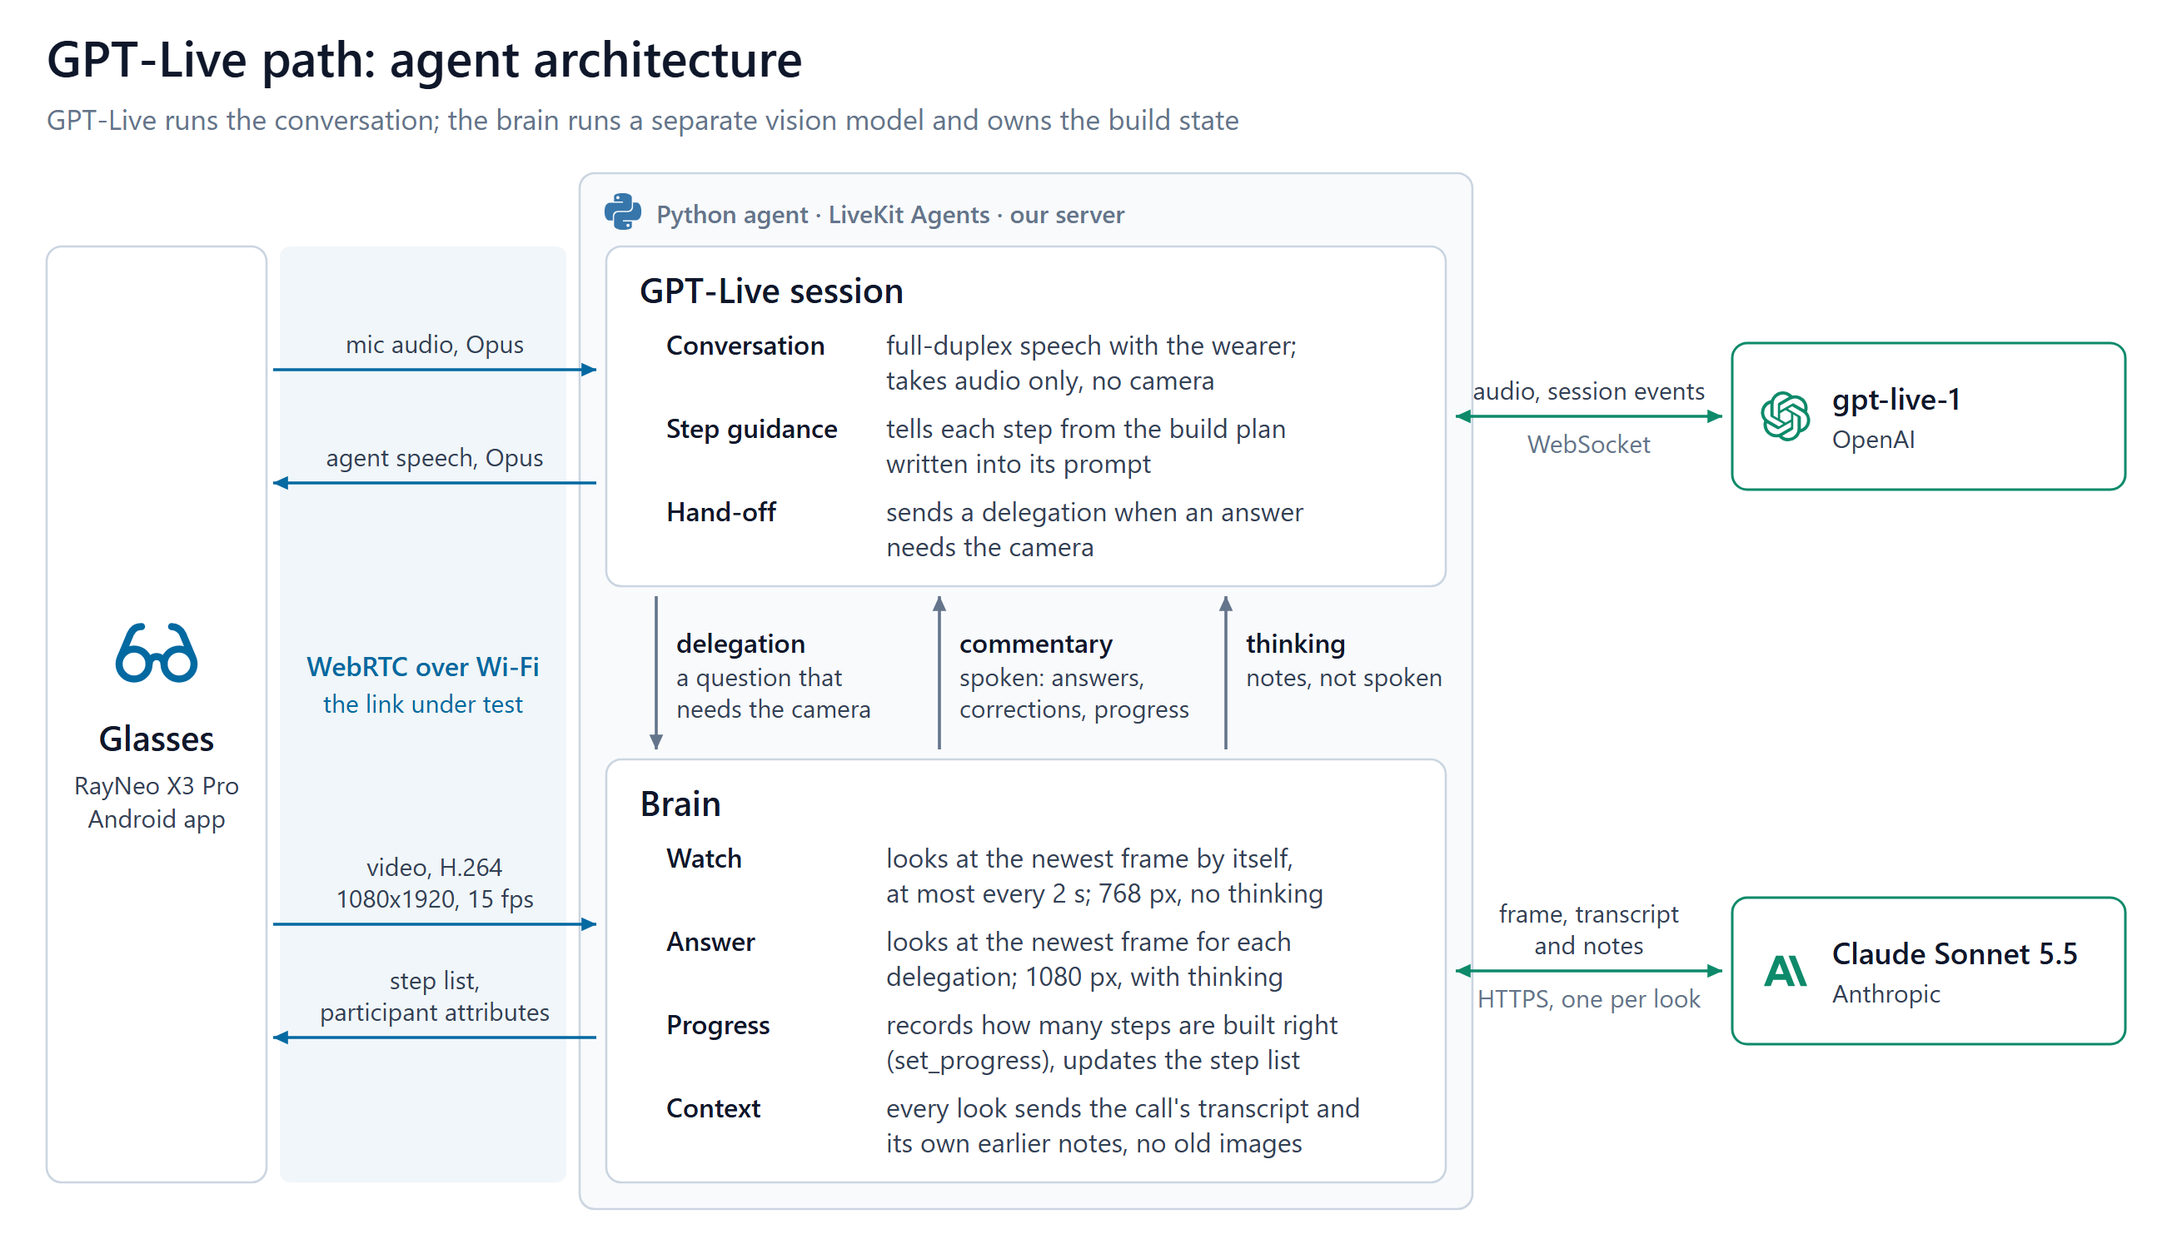
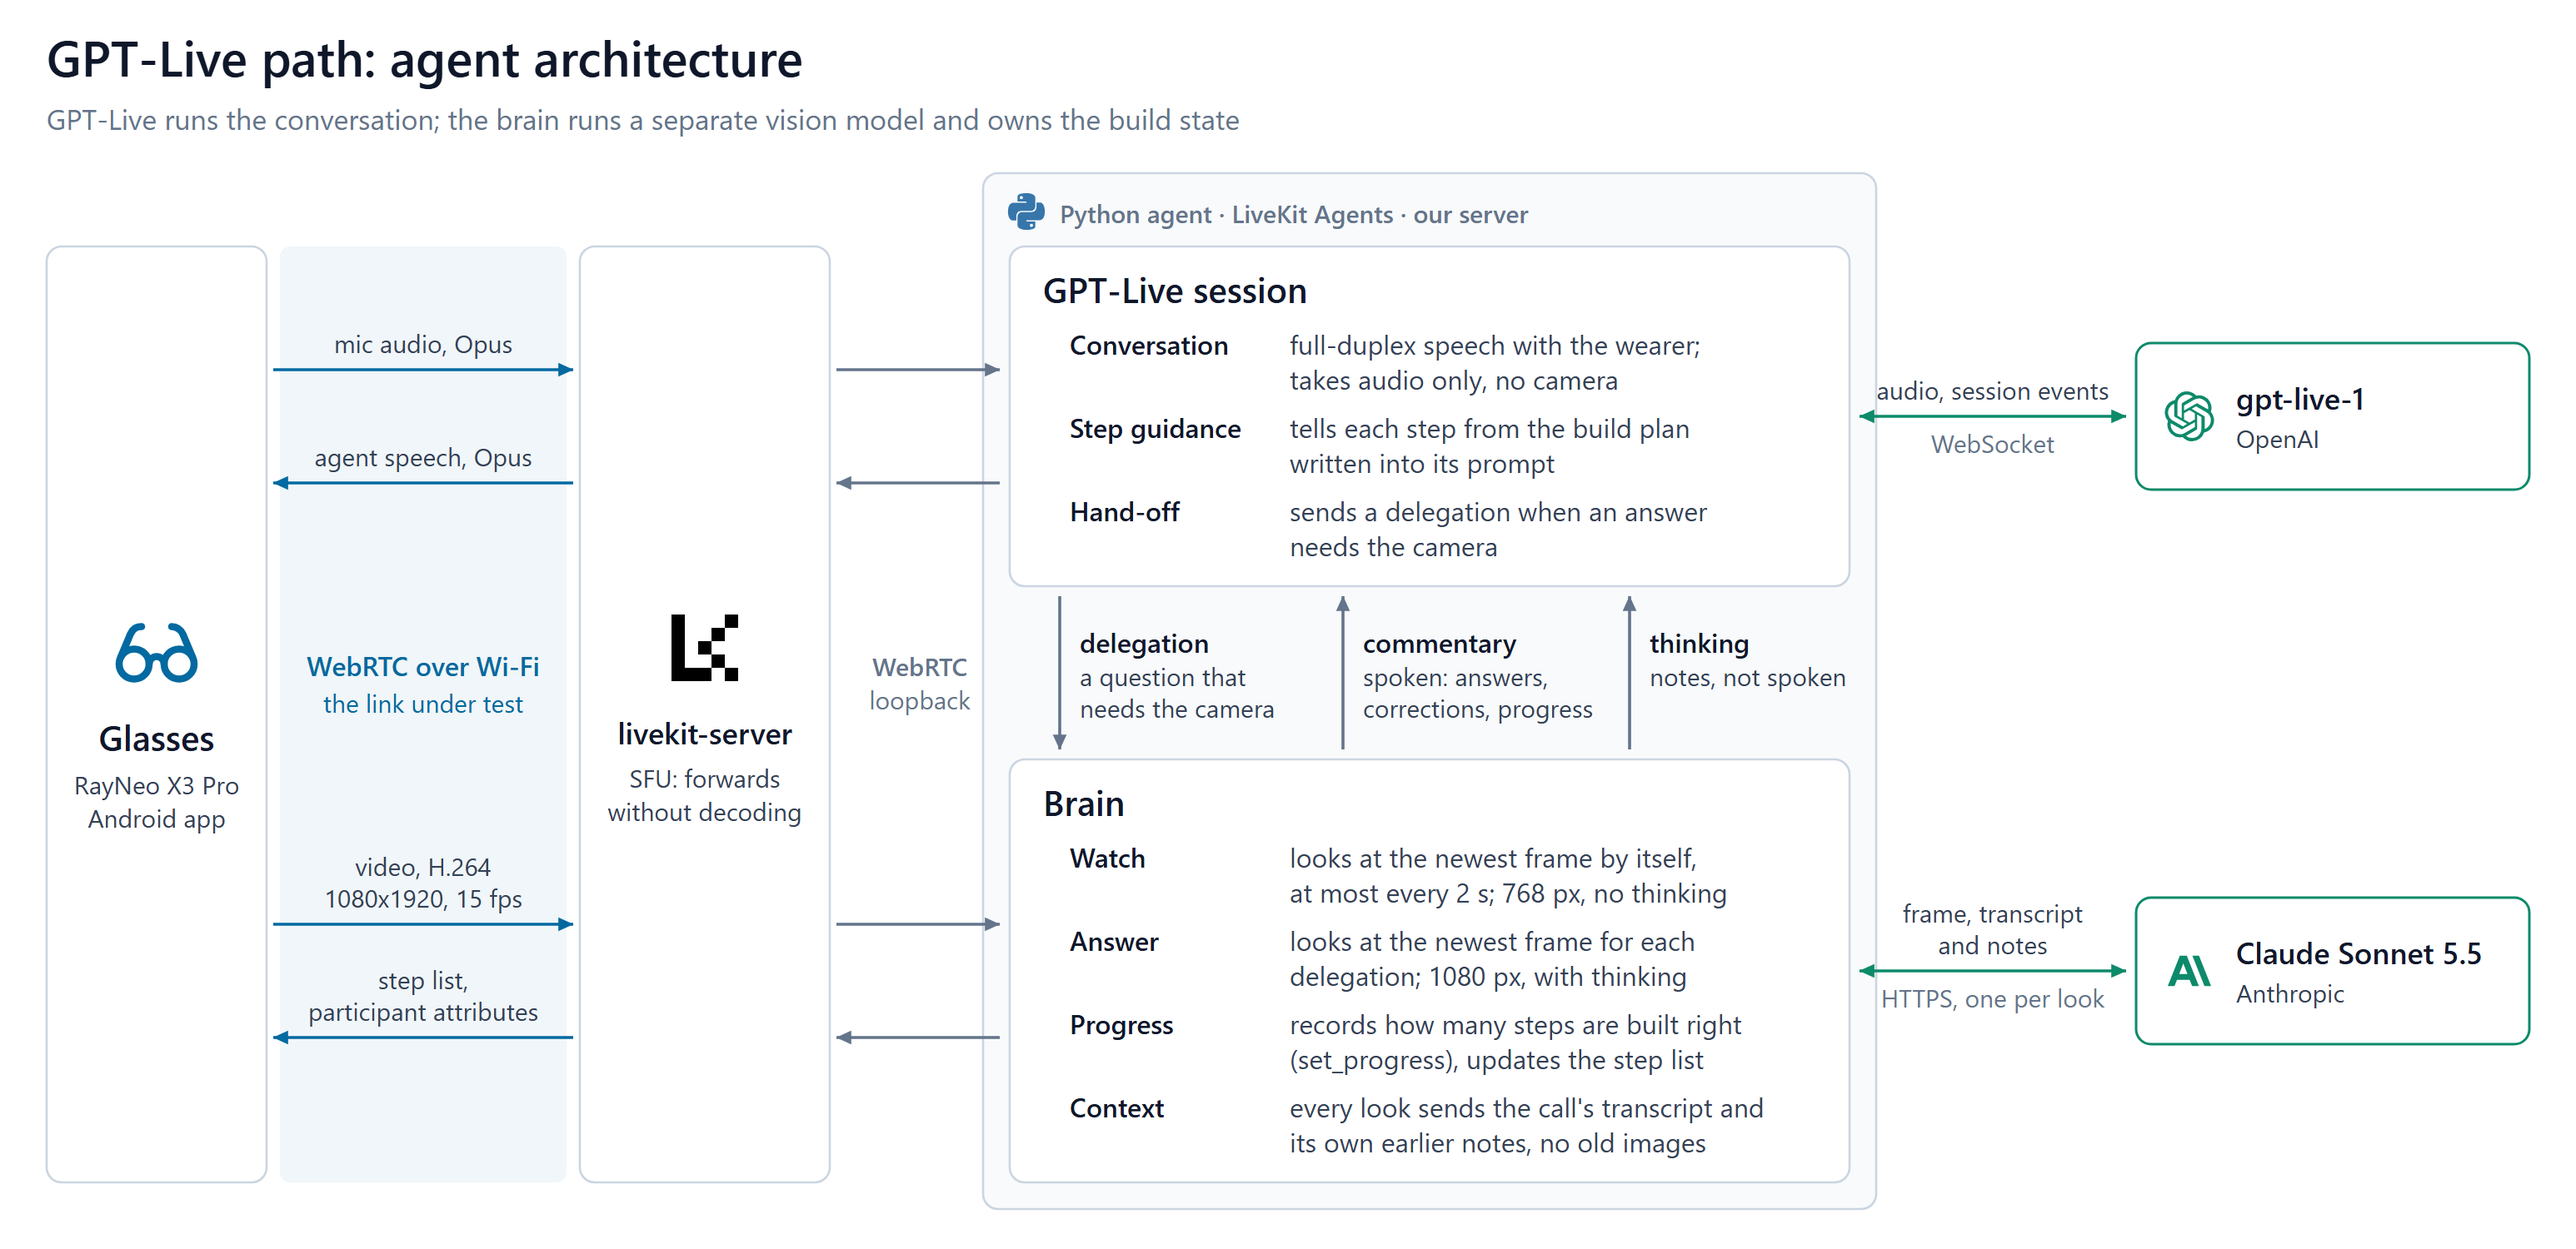
The agent figure draws livekit-server between the Wi-Fi link and the agent, so it no longer reads as if the glasses talked to the agent directly: every connection runs in two legs, glasses to livekit-server over WebRTC on Wi-Fi, the leg under test and the one that carries the labels, and livekit-ser

diff --git a/docs/make_gpt_live_agent.py b/docs/make_gpt_live_agent.py
@@ -27,7 +27,7 @@ SANS = "Segoe UI, Inter, Helvetica Neue, Arial, sans-serif"
 # model APIs
 THEME = dict(
     background="#ffffff", card="#ffffff", frame="#f8fafc", edge="#cbd5e1", text="#0f172a", body="#334155",
-    muted="#64748b", accent="#0369a1", band="#0369a1", cloud="#0d8a6a", python="#3776AB",
+    muted="#64748b", accent="#0369a1", band="#0369a1", cloud="#0d8a6a", python="#3776AB", livekit="#000000",
 )
 
 # type scale ----------------------------------------------------------------
@@ -47,7 +47,9 @@ LINK = 172                                       # from a card to its model API 
 GX, GW = PAD, 132                                # glasses card
 BX1 = GX + GW + GAP                              # the WebRTC hop under test
 BX2 = BX1 + 172
-FX, FY = BX2 + GAP, 104                          # agent frame
+LX, LW = BX2 + GAP, 150                          # livekit-server: every connection to the glasses goes through it
+LOOP = 92                                        # livekit-server to the agent frame: loopback on our server
+FX, FY = LX + LW + LOOP, 104                     # agent frame
 CX, CW = FX + INSET, 504                         # session and brain cards
 FW = CW + 2 * INSET
 INDENT = 16                                      # the rows sit this far in from the card's name
@@ -186,13 +188,30 @@ def build(t: dict) -> str:
     tag(X_COM + 12, ym, "commentary", ["spoken: answers,", "corrections, progress"])
     tag(X_THK + 12, ym, "thinking", ["notes, not spoken"])
 
-    # glasses <-> agent
-    gx1, cx0 = GX + GW + 4, CX - 6
-    lx = (gx1 + cx0) / 2
+    # livekit-server, the SFU between the glasses and the agent: it forwards the media and the attributes as they
+    # are, and holds a WebRTC connection of its own to each side
+    box(LX, GY, LW, GH)
+    lcx = LX + LW / 2
+    add(place("livekit", lcx, GY + GH / 2 - 60, 40, f'fill="{t["livekit"]}"'))
+    text(lcx, GY + GH / 2 + 18, "livekit-server", T_ROW + 2, weight=600)
+    text(lcx, GY + GH / 2 + 44, "SFU: forwards", T_LABEL, colour=t["body"])
+    text(lcx, GY + GH / 2 + 64, "without decoding", T_LABEL, colour=t["body"])
+    loop_cx = (LX + LW + CX) / 2
+    text(loop_cx, (SY + SH + RY) / 2 + 2, "WebRTC", T_LABEL, colour=t["muted"], weight=600)
+    text(loop_cx, (SY + SH + RY) / 2 + 22, "loopback", T_LABEL, colour=t["muted"])
+
+    # glasses <-> livekit-server <-> agent: each connection in two legs, labelled on the one under test
+    gx1, lx0, lx1, cx0 = GX + GW + 4, LX - 4, LX + LW + 4, CX - 6
+    lx = (gx1 + lx0) / 2
     for y, lines, to_agent in ((Y_AUDIO_UP, ["mic audio, Opus"], True), (Y_AUDIO_DOWN, ["agent speech, Opus"], False),
                                (Y_VIDEO, ["video, H.264", "1080x1920, 15 fps"], True),
                                (Y_STEPS, ["step list,", "participant attributes"], False)):
-        wire([(gx1, y), (cx0, y)] if to_agent else [(cx0, y), (gx1, y)], t["accent"], "head")
+        if to_agent:
+            wire([(gx1, y), (lx0, y)], t["accent"], "head")
+            wire([(lx1, y), (cx0, y)], t["muted"], "headm")
+        else:
+            wire([(cx0, y), (lx1, y)], t["muted"], "headm")
+            wire([(lx0, y), (gx1, y)], t["accent"], "head")
         label(lx, y, lines)
 
     # model APIs

diff --git a/README.md b/README.md
@@ -30,7 +30,7 @@ A call starts with the glasses asking the api for the builds; the wearer picks o
 
 <img alt="GPT-Live path, deployment: the glasses reach livekit-server on our server by WebRTC over Wi-Fi, the link under test; the Python agent on the same server reaches livekit-server over loopback, gpt-live-1 (OpenAI) over a WebSocket and Claude Sonnet 5.5 (Anthropic) over HTTPS" src="docs/gpt-live-overview.png">
 
-<img alt="GPT-Live path, agent architecture: the glasses send mic audio and H.264 video and receive the agent's speech and the step list as participant attributes; the GPT-Live session holds the conversation, tells each step from the build plan in its prompt and hands questions that need the camera to the brain as delegations; the brain watches the newest frame by itself at most every 2 s (768 px, no thinking), answers each delegation (1080 px, with thinking), records the progress and updates the step list, and sends every look the transcript of the call and its own earlier notes; it answers GPT-Live with commentary, which is spoken, and thinking, which is not" src="docs/gpt-live-agent.png">
+<img alt="GPT-Live path, agent architecture: the glasses send mic audio and H.264 video and receive the agent's speech and the step list as participant attributes, all through livekit-server, which forwards them over WebRTC on Wi-Fi to the glasses and over loopback to the agent without decoding; the GPT-Live session holds the conversation, tells each step from the build plan in its prompt and hands questions that need the camera to the brain as delegations; the brain watches the newest frame by itself at most every 2 s (768 px, no thinking), answers each delegation (1080 px, with thinking), records the progress and updates the step list, and sends every look the transcript of the call and its own earlier notes; it answers GPT-Live with commentary, which is spoken, and thinking, which is not" src="docs/gpt-live-agent.png">
 
 Two models. GPT-Live (`gpt-live-1`) is the voice: it hears the wearer and speaks, both at once, and decides itself when to talk; it takes audio only, so it cannot see. The brain (`gpt/brain.py`) is the eyes: it sends the camera picture to a vision model (OpenAI or Anthropic), by itself every few seconds and whenever GPT-Live asks, and keeps the build's progress.
 
